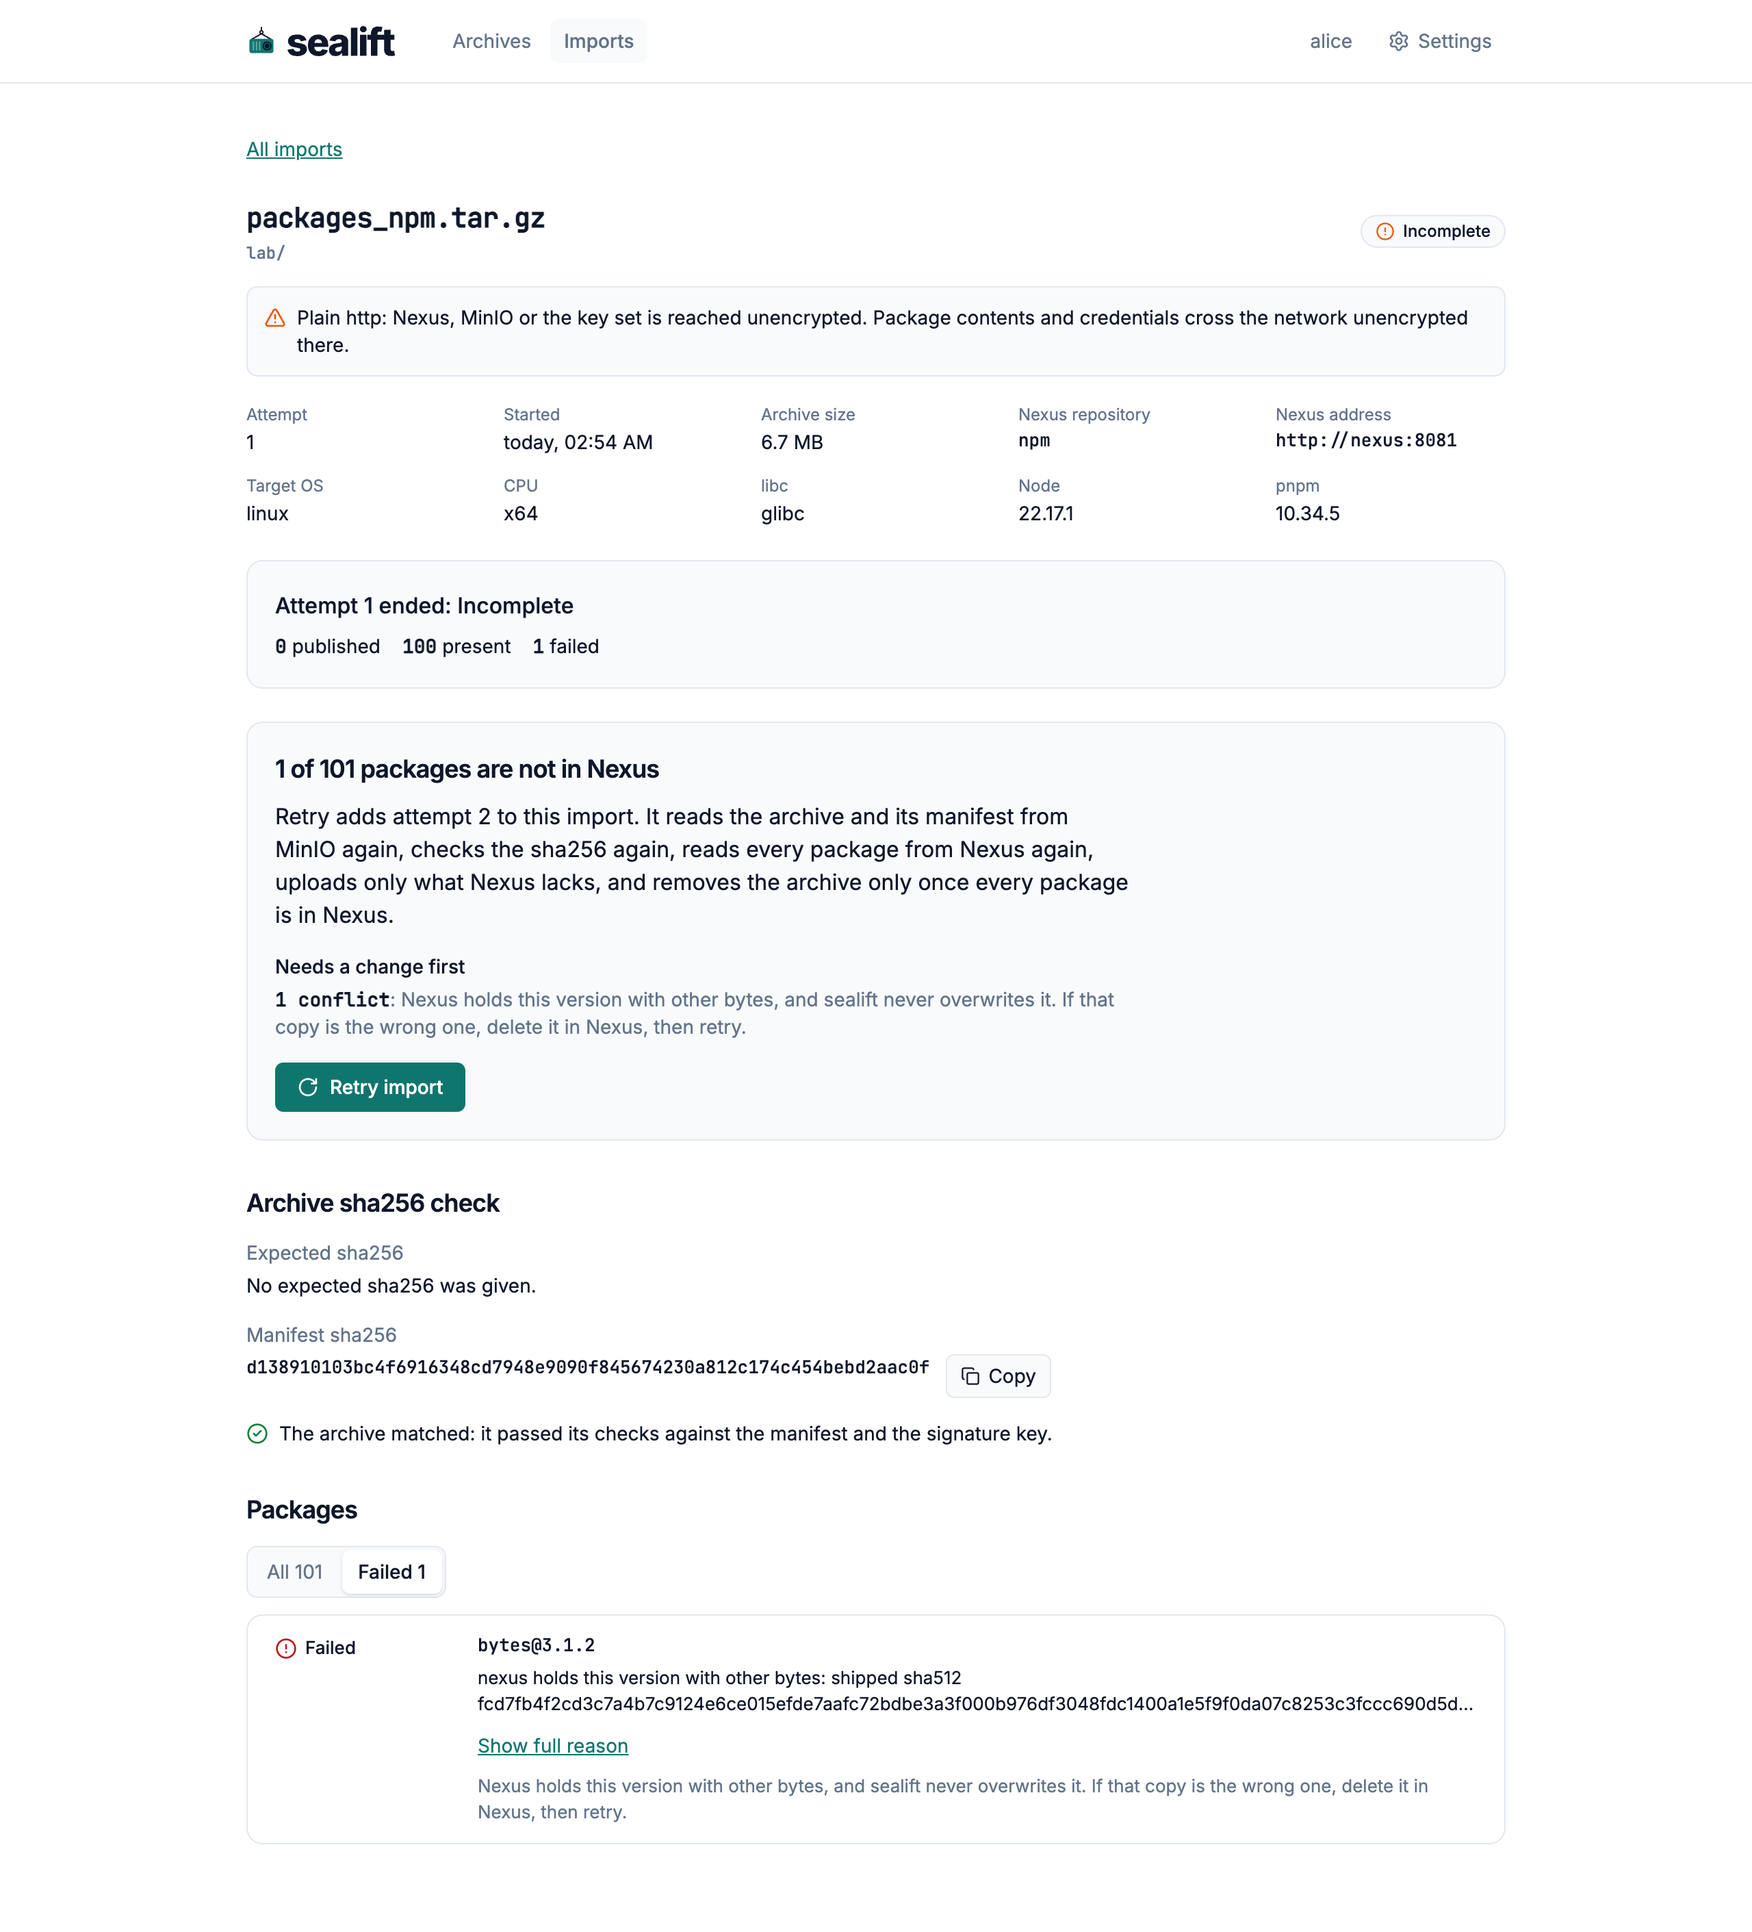
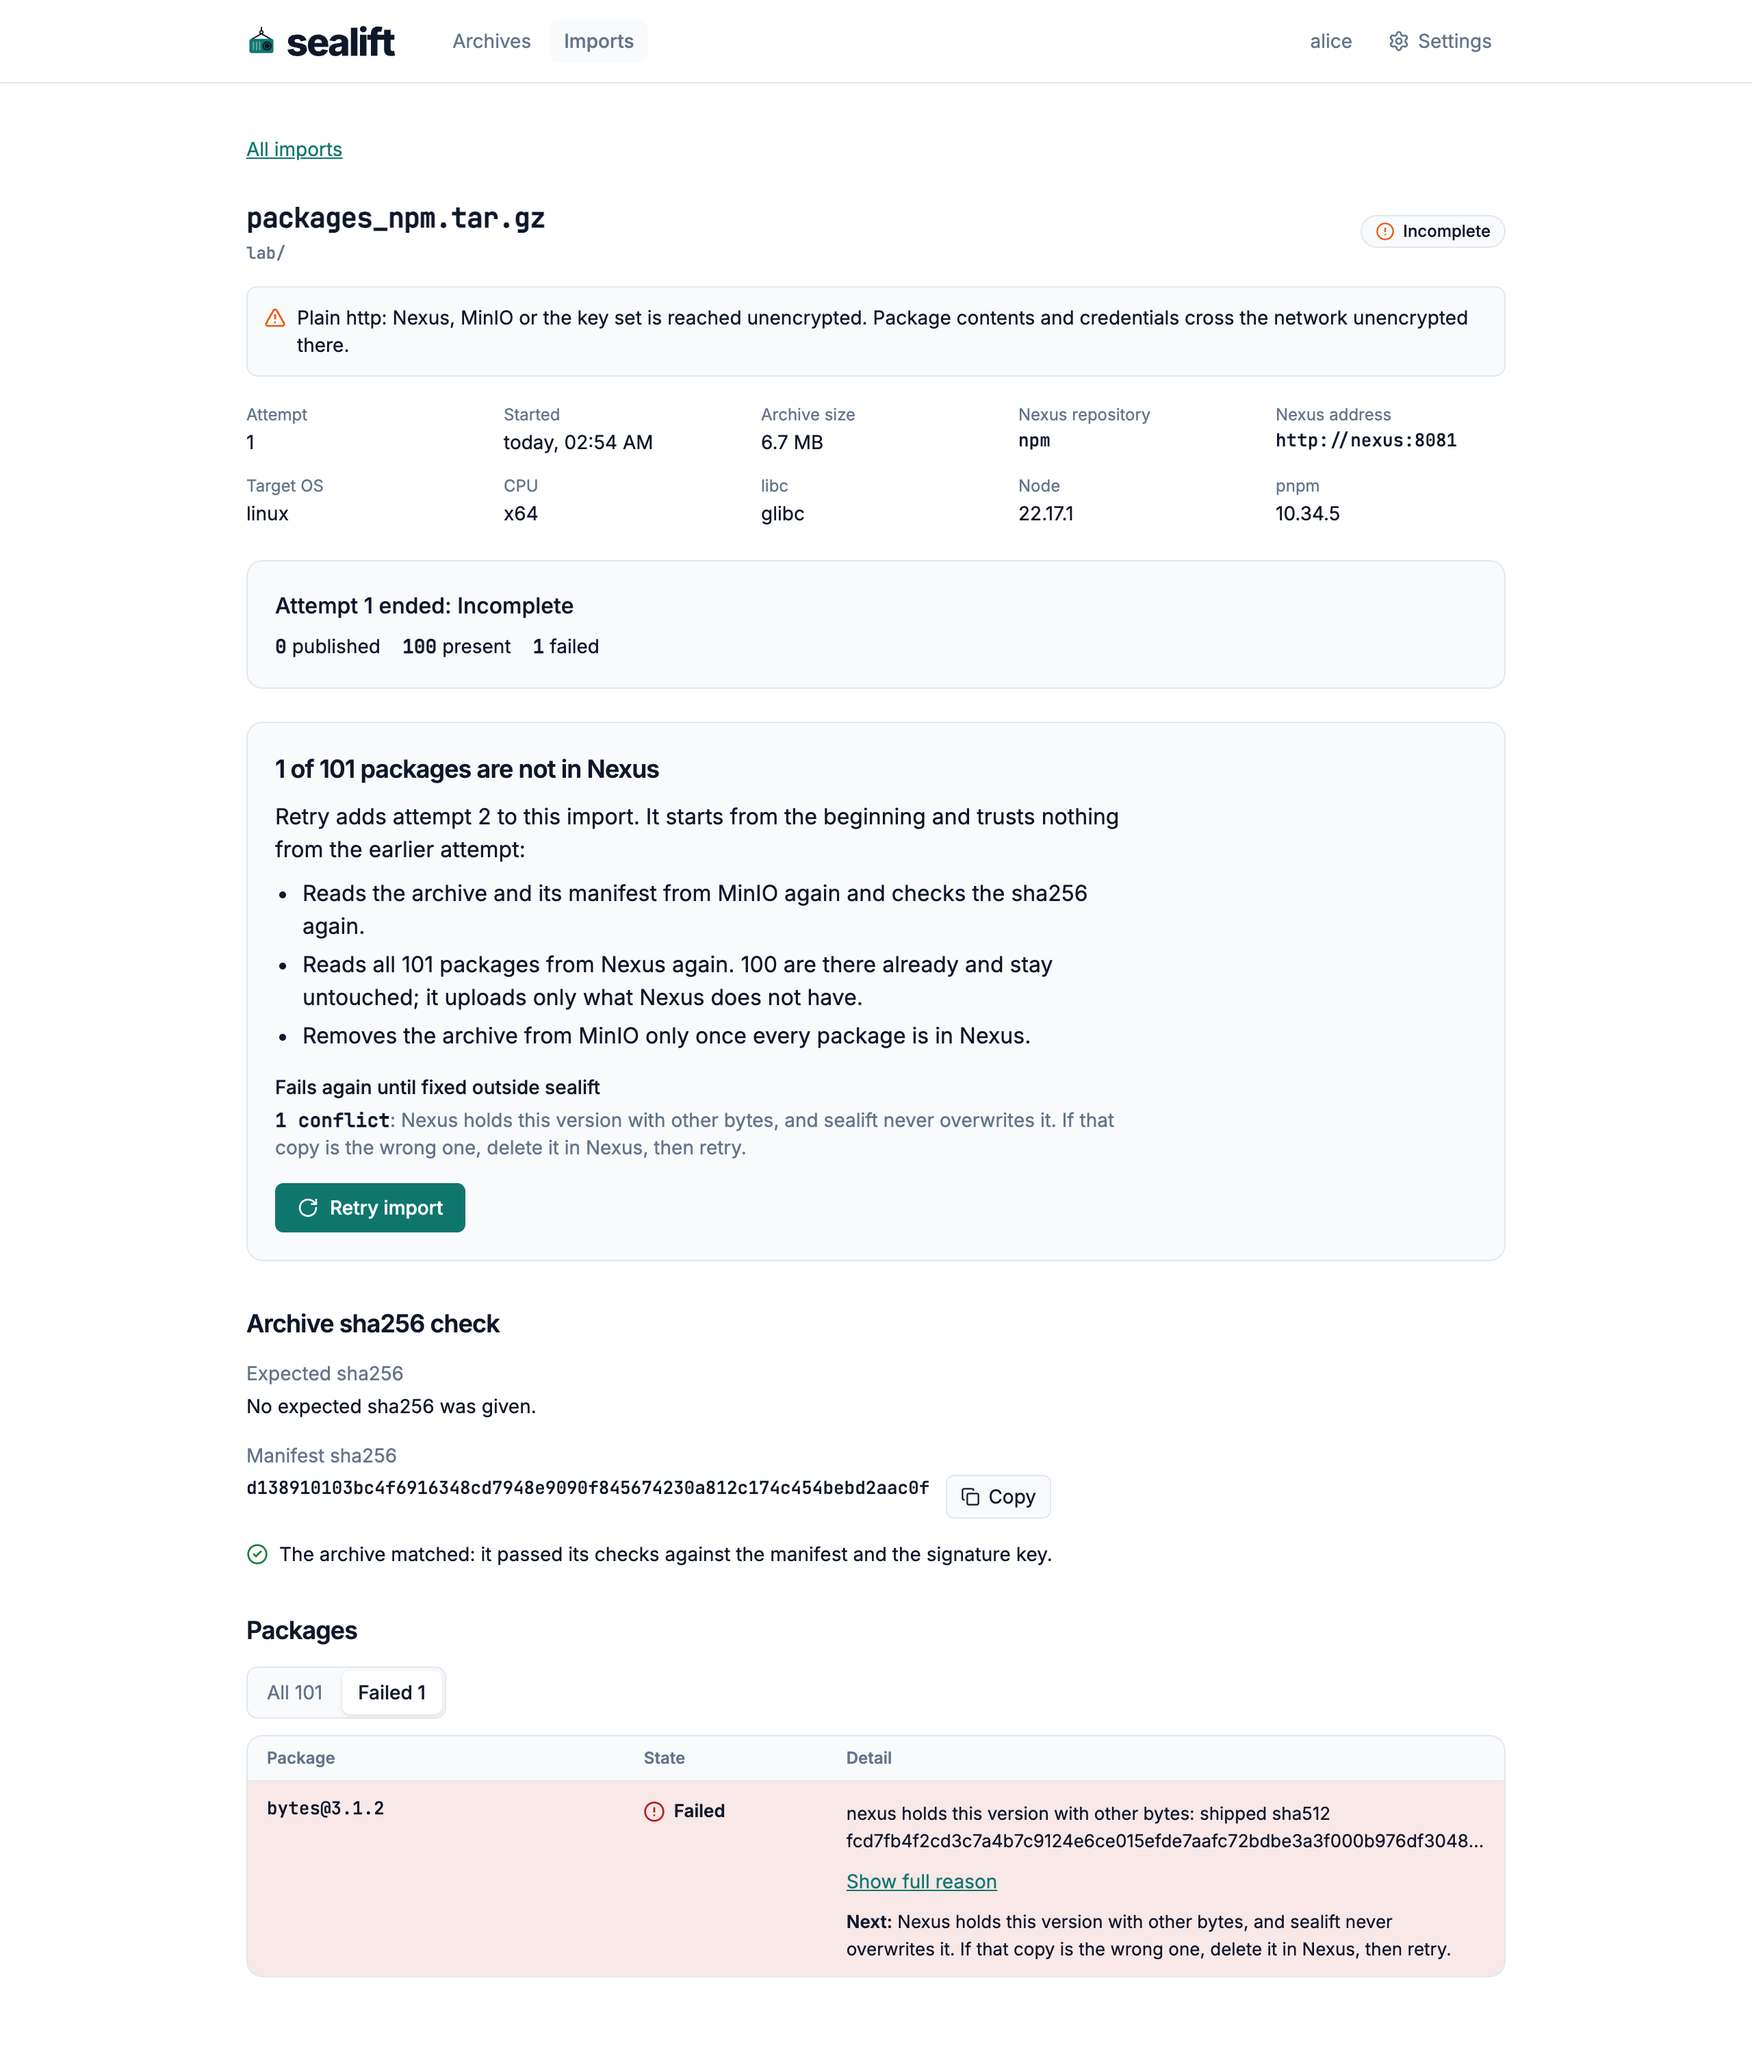
docs(import): correct the import screens page against a fresh lab run
The page said every state was read in the lab and the captures came
from that run, but the image had not been rebuilt after the last screen
changes. The lab now runs an image built from this branch, and the page
says what that run covered and what it did not. The incomplete and
running captures are retaken, the notice count and the row reasons are
complete, a queued attempt shows Follow, the check block's three
sentences are listed, and a gateway error page is described as a failed
request, not a sign-out.

diff --git a/docs/importing.md b/docs/importing.md
@@ -14,16 +14,17 @@ An archive can be imported when its folder holds one archive and its `manifest.j
 
 | Reason on the row | What to do |
 | --- | --- |
+| `its name cannot be imported` | Rename or move it: the key must end in `.tar.gz`, sit in `packages/npm/` or one folder below it, hold no empty, `.` or `..` segment and no control character, and stay within 1,024 bytes. |
 | `the folder holds more than one archive` | Keep one archive and its manifest.json in the folder. |
 | `no manifest.json in its folder` | Upload the manifest next to the archive. |
 
 An importable row says `Can be imported`, then one of these:
 
 - `Not imported yet` and the `Start` button.
-- The state of the latest import of this archive, with its counts, and `Open import`.
+- The state of the latest import of this archive, with its counts, and `Open import`. While that import is queued or running, the row says `Waiting its turn` or the packages done so far, and the link reads `Follow`.
 - For a complete import whose archive is still listed, why it stayed: `Removal not recorded yet.`, or `Kept in MinIO:` and the reason.
 
-Three notices can sit above the rows. One says the folder holds more than 1,000 objects and the list shows the first 1,000 in name order. The other says that the links to the key set, MinIO or Nexus run over plain http, so package contents and credentials cross the network unencrypted there.
+Two notices can sit above the rows. One says the folder holds more than 1,000 objects and the list shows the first 1,000 in name order. The other says that the links to the key set, MinIO or Nexus run over plain http, so package contents and credentials cross the network unencrypted there.
 
 An empty list says `No archive in your folder` and where to upload. `MinIO is not configured` means the administrator has not set the `minio` section of the settings file.
 
@@ -53,9 +54,9 @@ An import shows the archive's name and folder, its state, the settings it ran wi
 | `Interrupted` | The service stopped before the attempt ended. |
 | `Not recorded` | A record that names no state this version knows. |
 
-While it runs, one panel shows the stage and stays in place: `Waiting its turn`, `Reading the manifest`, `Checking the archive` (the check reads the whole archive once and shows no byte progress, so a large archive can take minutes) and `Publishing packages: 32 of 101` with a bar and the counts `published`, `present`, `failed` and `pending`. The page updates every 2 seconds. When the attempt ends, the panel reads `Attempt 1 ended: Complete`, or the state that applies.
+While it runs, one panel shows the stage and stays in place: `Waiting its turn`, `Reading the manifest`, `Checking the archive` (the check reads the whole archive once and shows no byte progress, so a large archive can take minutes) and `Publishing packages: 37 of 101` with a bar and the counts `published`, `present`, `failed` and `pending`. The page updates every 2 seconds. When the attempt ends, the panel reads `Attempt 1 ended: Complete`, or the state that applies.
 
-![A running import, publishing packages: 32 of 101](assets/import-running.png)
+![A running import, publishing packages: 37 of 101](assets/import-running.png)
 
 ### How an attempt ends
 
@@ -68,13 +69,13 @@ While it runs, one panel shows the stage and stays in place: `Waiting its turn`,
 | `Refused before the first package` | `Refused` | The reason, such as both digests when the expected sha256 differs. `This attempt published nothing and read no package.` and `Go to archives`. Starting the archive again is allowed. |
 | `Stopped before it ended` | `Interrupted` | `The service stopped or restarted before this attempt ended.`, how many packages were finished and how many were not. |
 
-The words `complete` and `removed` appear only when the record says so. A record written by 0.4.0 has no check result: the page says `Not recorded: this attempt was written by a sealift that did not record the archive's checks.` where a newer record says `The archive matched: it passed its checks against the manifest and the signature key.` A package of such a record has no kind, and its next action is the general one: `Read the reason: it names what failed. Fix that, then retry.`
+The words `complete` and `removed` appear only when the record says so. The `Archive sha256 check` block says `The archive matched: it passed its checks against the manifest and the signature key.` only when the attempt recorded that the checks passed, and `The archive has not passed its checks.` when it recorded that they did not. An attempt that has not reached the checks yet, because it is queued or running before the manifest is read, says `The archive's checks have not run yet.` An attempt that ended with no check result, such as one interrupted while it waited or a record written by 0.4.0, says `Not recorded: this attempt did not record the archive's checks.` A package of a 0.4.0 record has no kind, and its next action is the general one: `Read the reason: it names what failed. Fix that, then retry.`
 
 The `Archive sha256 check` block shows `Expected sha256` (`No expected sha256 was given.` when you gave none) and `Manifest sha256`, each with a `Copy` button. Where the browser offers no clipboard, which is the case on a page served over plain http from any name other than `localhost`, the button selects the text and says `The clipboard is not available on this page. The text is selected: press Ctrl+C, or Command+C on a Mac, to copy it.`
 
 ### The retry card
 
-An `Incomplete` import shows a card titled `1 of 101 packages are not in Nexus`. It says what a retry does: it adds an attempt, reads the archive and its manifest from MinIO again and checks the sha256 again, reads every package from Nexus again, says how many are there already and stay untouched, uploads only what Nexus lacks and removes the archive only once every package is in Nexus. The card sorts the failures by what they need:
+An `Incomplete` import shows a card titled `1 of 101 packages are not in Nexus`. It lists what a retry does: it adds an attempt, reads the archive and its manifest from MinIO again and checks the sha256 again, reads every package from Nexus again, says how many are there already and stay untouched, uploads only what Nexus lacks and removes the archive only once every package is in Nexus. The card sorts the failures by what they need:
 
 | Group | Kinds |
 | --- | --- |
@@ -92,8 +93,18 @@ For a `conflict`, the card says `Nexus holds this version with other bytes, and 
 
 ## When your session ends
 
-The gateway signs users out after a time. A screen that finds itself signed out says `Your session has ended` and `The page was signed out while you were away. Sign in again to carry on; nothing you started was changed.` with `Sign in again`. A list already on screen stays in place, with `The last refresh failed. The list is as it was.` above it. Imports go on without the page.
+The gateway signs users out after a time. A screen that finds itself signed out says `Your session has ended` and `The page was signed out while you were away. Sign in again to carry on; nothing you started was changed.` with `Sign in again`. The notice replaces a list that was on screen, along with its count line and its `Refresh` button. Imports go on without the page.
+
+An error page from the gateway is not a sign-out. While the service restarts, nginx answers with its own HTML page and status 502 or 504. A screen reads that as a failed request: a list on screen stays, with `The last refresh failed. The list is as it was.` next to its count, and a screen with nothing to show says `This could not be loaded` with `Try again`.
 
 ## Checked in the lab
 
-Every state and message above was read on the lab's gateway at http://localhost:18440 (see `lab/README.md`), signed in as `alice`, in a browser driven by script, and the captures come from the same run. `bob` saw none of alice's archives or imports, and her import's address answered `No such import` to him.
+The screens above were read on the lab's gateway at http://localhost:18440 (see `lab/README.md`), signed in as `alice` and `bob`, in a browser driven by script, against an image built from this branch, and the captures come from that run. The run covered:
+
+- Archives with five rows: two in a folder holding two archives, one in a folder with no manifest, one not imported yet and one whose import ended incomplete. Archives while one import ran and another waited, with the `Follow` links.
+- Imports, with imports of every state the lab held, and each of these on its own page: a complete import with the archive removed, an incomplete one with a planted conflict, a refused one, a running one at 37 of 101 packages, a queued one and an interrupted one after `docker compose restart import-server`. The queued import read `The archive's checks have not run yet.` and, once the restart had interrupted it before it started, `Not recorded: this attempt did not record the archive's checks.`
+- The session ending: deleting the `_oauth2_proxy` cookie and pressing `Refresh` on Archives, and opening Imports from an import page, each replaced the list with `Your session has ended`.
+- A stopped `import-server`: the gateway answered `/api/imports` with a 502 `text/html` page, and the running import's page kept its panel and never said `Your session has ended` over 26 seconds. A 502 HTML answer to the Archives `Refresh`, served by the script, left the 10 rows in place with `The last refresh failed. The list is as it was.`
+- `bob` saw none of alice's archives or imports, and her import's address answered `No such import` to him.
+
+Not driven in the lab this time: the cards for a kept archive and a removal not yet recorded, a retry, an import that was refused after an incomplete attempt, and the clipboard fallback of `Copy`. The unit tests and the browser gate's fixtures cover the cards and the wording.
